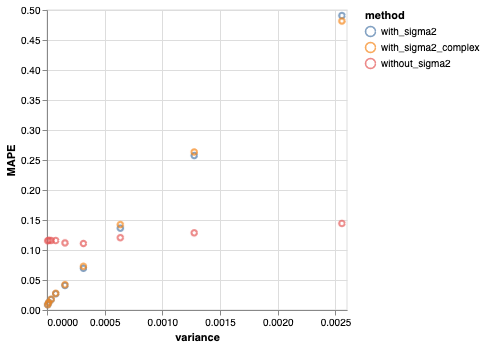
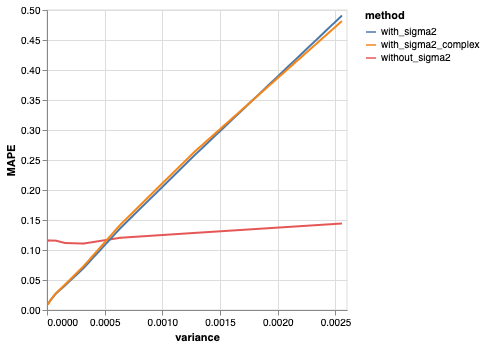
Line plot instead of scatter

diff --git a/MAPE_variance.html b/MAPE_variance.html
@@ -20,7 +20,7 @@
   <div id="vis"></div>
   <script>
     (function(vegaEmbed) {
-      var spec = {"config": {"view": {"continuousWidth": 300, "continuousHeight": 300}}, "data": {"name": "data-a40fffe9a8c9c95f3a639ee4f044bb15"}, "mark": {"type": "point"}, "encoding": {"color": {"field": "method", "type": "nominal"}, "x": {"field": "variance", "type": "quantitative"}, "y": {"field": "MAPE", "type": "quantitative"}}, "$schema": "https://vega.github.io/schema/vega-lite/v5.16.3.json", "datasets": {"data-a40fffe9a8c9c95f3a639ee4f044bb15": [{"variable": 1, "true_mean": 0.1, "variance": 1e-05, "method": "without_sigma2", "MAPE": 0.11446352472982138}, {"variable": 2, "true_mean": 0.1, "variance": 2e-05, "method": "without_sigma2", "MAPE": 0.11533972372255727}, {"variable": 3, "true_mean": 0.1, "variance": 4e-05, "method": "without_sigma2", "MAPE": 0.11500677116255789}, {"variable": 4, "true_mean": 0.1, "variance": 8e-05, "method": "without_sigma2", "MAPE": 0.11496271946362928}, {"variable": 5, "true_mean": 0.1, "variance": 0.00016, "method": "without_sigma2", "MAPE": 0.11103836716333787}, {"variable": 6, "true_mean": 0.1, "variance": 0.00032, "method": "without_sigma2", "MAPE": 0.11001046468893026}, {"variable": 7, "true_mean": 0.1, "variance": 0.00064, "method": "without_sigma2", "MAPE": 0.11975678657857121}, {"variable": 8, "true_mean": 0.1, "variance": 0.00128, "method": "without_sigma2", "MAPE": 0.12774046912992193}, {"variable": 9, "true_mean": 0.1, "variance": 0.00256, "method": "without_sigma2", "MAPE": 0.1434876541246998}, {"variable": 1, "true_mean": 0.1, "variance": 1e-05, "method": "with_sigma2", "MAPE": 0.008047063788750797}, {"variable": 2, "true_mean": 0.1, "variance": 2e-05, "method": "with_sigma2", "MAPE": 0.011598819403233674}, {"variable": 3, "true_mean": 0.1, "variance": 4e-05, "method": "with_sigma2", "MAPE": 0.01677336430691984}, {"variable": 4, "true_mean": 0.1, "variance": 8e-05, "method": "with_sigma2", "MAPE": 0.02631111923723618}, {"variable": 5, "true_mean": 0.1, "variance": 0.00016, "method": "with_sigma2", "MAPE": 0.040059650479868564}, {"variable": 6, "true_mean": 0.1, "variance": 0.00032, "method": "with_sigma2", "MAPE": 0.0687396947751783}, {"variable": 7, "true_mean": 0.1, "variance": 0.00064, "method": "with_sigma2", "MAPE": 0.1356197306044849}, {"variable": 8, "true_mean": 0.1, "variance": 0.00128, "method": "with_sigma2", "MAPE": 0.2565828712417958}, {"variable": 9, "true_mean": 0.1, "variance": 0.00256, "method": "with_sigma2", "MAPE": 0.4899164147576058}, {"variable": 1, "true_mean": 0.1, "variance": 1e-05, "method": "with_sigma2_complex", "MAPE": 0.008082733041563692}, {"variable": 2, "true_mean": 0.1, "variance": 2e-05, "method": "with_sigma2_complex", "MAPE": 0.011695414973782984}, {"variable": 3, "true_mean": 0.1, "variance": 4e-05, "method": "with_sigma2_complex", "MAPE": 0.016978916852031057}, {"variable": 4, "true_mean": 0.1, "variance": 8e-05, "method": "with_sigma2_complex", "MAPE": 0.026940210207668052}, {"variable": 5, "true_mean": 0.1, "variance": 0.00016, "method": "with_sigma2_complex", "MAPE": 0.04143967828718862}, {"variable": 6, "true_mean": 0.1, "variance": 0.00032, "method": "with_sigma2_complex", "MAPE": 0.07192734357507208}, {"variable": 7, "true_mean": 0.1, "variance": 0.00064, "method": "with_sigma2_complex", "MAPE": 0.1415127730927227}, {"variable": 8, "true_mean": 0.1, "variance": 0.00128, "method": "with_sigma2_complex", "MAPE": 0.26251445800879025}, {"variable": 9, "true_mean": 0.1, "variance": 0.00256, "method": "with_sigma2_complex", "MAPE": 0.48073234128264447}]}};
+      var spec = {"config": {"view": {"continuousWidth": 300, "continuousHeight": 300}}, "data": {"name": "data-a40fffe9a8c9c95f3a639ee4f044bb15"}, "mark": {"type": "line"}, "encoding": {"color": {"field": "method", "type": "nominal"}, "x": {"field": "variance", "type": "quantitative"}, "y": {"field": "MAPE", "type": "quantitative"}}, "$schema": "https://vega.github.io/schema/vega-lite/v5.16.3.json", "datasets": {"data-a40fffe9a8c9c95f3a639ee4f044bb15": [{"variable": 1, "true_mean": 0.1, "variance": 1e-05, "method": "without_sigma2", "MAPE": 0.11446352472982138}, {"variable": 2, "true_mean": 0.1, "variance": 2e-05, "method": "without_sigma2", "MAPE": 0.11533972372255727}, {"variable": 3, "true_mean": 0.1, "variance": 4e-05, "method": "without_sigma2", "MAPE": 0.11500677116255789}, {"variable": 4, "true_mean": 0.1, "variance": 8e-05, "method": "without_sigma2", "MAPE": 0.11496271946362928}, {"variable": 5, "true_mean": 0.1, "variance": 0.00016, "method": "without_sigma2", "MAPE": 0.11103836716333787}, {"variable": 6, "true_mean": 0.1, "variance": 0.00032, "method": "without_sigma2", "MAPE": 0.11001046468893026}, {"variable": 7, "true_mean": 0.1, "variance": 0.00064, "method": "without_sigma2", "MAPE": 0.11975678657857121}, {"variable": 8, "true_mean": 0.1, "variance": 0.00128, "method": "without_sigma2", "MAPE": 0.12774046912992193}, {"variable": 9, "true_mean": 0.1, "variance": 0.00256, "method": "without_sigma2", "MAPE": 0.1434876541246998}, {"variable": 1, "true_mean": 0.1, "variance": 1e-05, "method": "with_sigma2", "MAPE": 0.008047063788750797}, {"variable": 2, "true_mean": 0.1, "variance": 2e-05, "method": "with_sigma2", "MAPE": 0.011598819403233674}, {"variable": 3, "true_mean": 0.1, "variance": 4e-05, "method": "with_sigma2", "MAPE": 0.01677336430691984}, {"variable": 4, "true_mean": 0.1, "variance": 8e-05, "method": "with_sigma2", "MAPE": 0.02631111923723618}, {"variable": 5, "true_mean": 0.1, "variance": 0.00016, "method": "with_sigma2", "MAPE": 0.040059650479868564}, {"variable": 6, "true_mean": 0.1, "variance": 0.00032, "method": "with_sigma2", "MAPE": 0.0687396947751783}, {"variable": 7, "true_mean": 0.1, "variance": 0.00064, "method": "with_sigma2", "MAPE": 0.1356197306044849}, {"variable": 8, "true_mean": 0.1, "variance": 0.00128, "method": "with_sigma2", "MAPE": 0.2565828712417958}, {"variable": 9, "true_mean": 0.1, "variance": 0.00256, "method": "with_sigma2", "MAPE": 0.4899164147576058}, {"variable": 1, "true_mean": 0.1, "variance": 1e-05, "method": "with_sigma2_complex", "MAPE": 0.008082733041563692}, {"variable": 2, "true_mean": 0.1, "variance": 2e-05, "method": "with_sigma2_complex", "MAPE": 0.011695414973782984}, {"variable": 3, "true_mean": 0.1, "variance": 4e-05, "method": "with_sigma2_complex", "MAPE": 0.016978916852031057}, {"variable": 4, "true_mean": 0.1, "variance": 8e-05, "method": "with_sigma2_complex", "MAPE": 0.026940210207668052}, {"variable": 5, "true_mean": 0.1, "variance": 0.00016, "method": "with_sigma2_complex", "MAPE": 0.04143967828718862}, {"variable": 6, "true_mean": 0.1, "variance": 0.00032, "method": "with_sigma2_complex", "MAPE": 0.07192734357507208}, {"variable": 7, "true_mean": 0.1, "variance": 0.00064, "method": "with_sigma2_complex", "MAPE": 0.1415127730927227}, {"variable": 8, "true_mean": 0.1, "variance": 0.00128, "method": "with_sigma2_complex", "MAPE": 0.26251445800879025}, {"variable": 9, "true_mean": 0.1, "variance": 0.00256, "method": "with_sigma2_complex", "MAPE": 0.48073234128264447}]}};
       var embedOpt = {"mode": "vega-lite"};
 
       function showError(el, error){

diff --git a/analyze_experiment.py b/analyze_experiment.py
@@ -94,7 +94,7 @@ def plot_MAPE(df_MAPE):
     )
     chart1.save('MAPE_variable.html')
 
-    chart2 = alt.Chart(df_MAPE).mark_point().encode(
+    chart2 = alt.Chart(df_MAPE).mark_line().encode(
       x='variance:Q',
       y='MAPE:Q',
       color='method:N'
